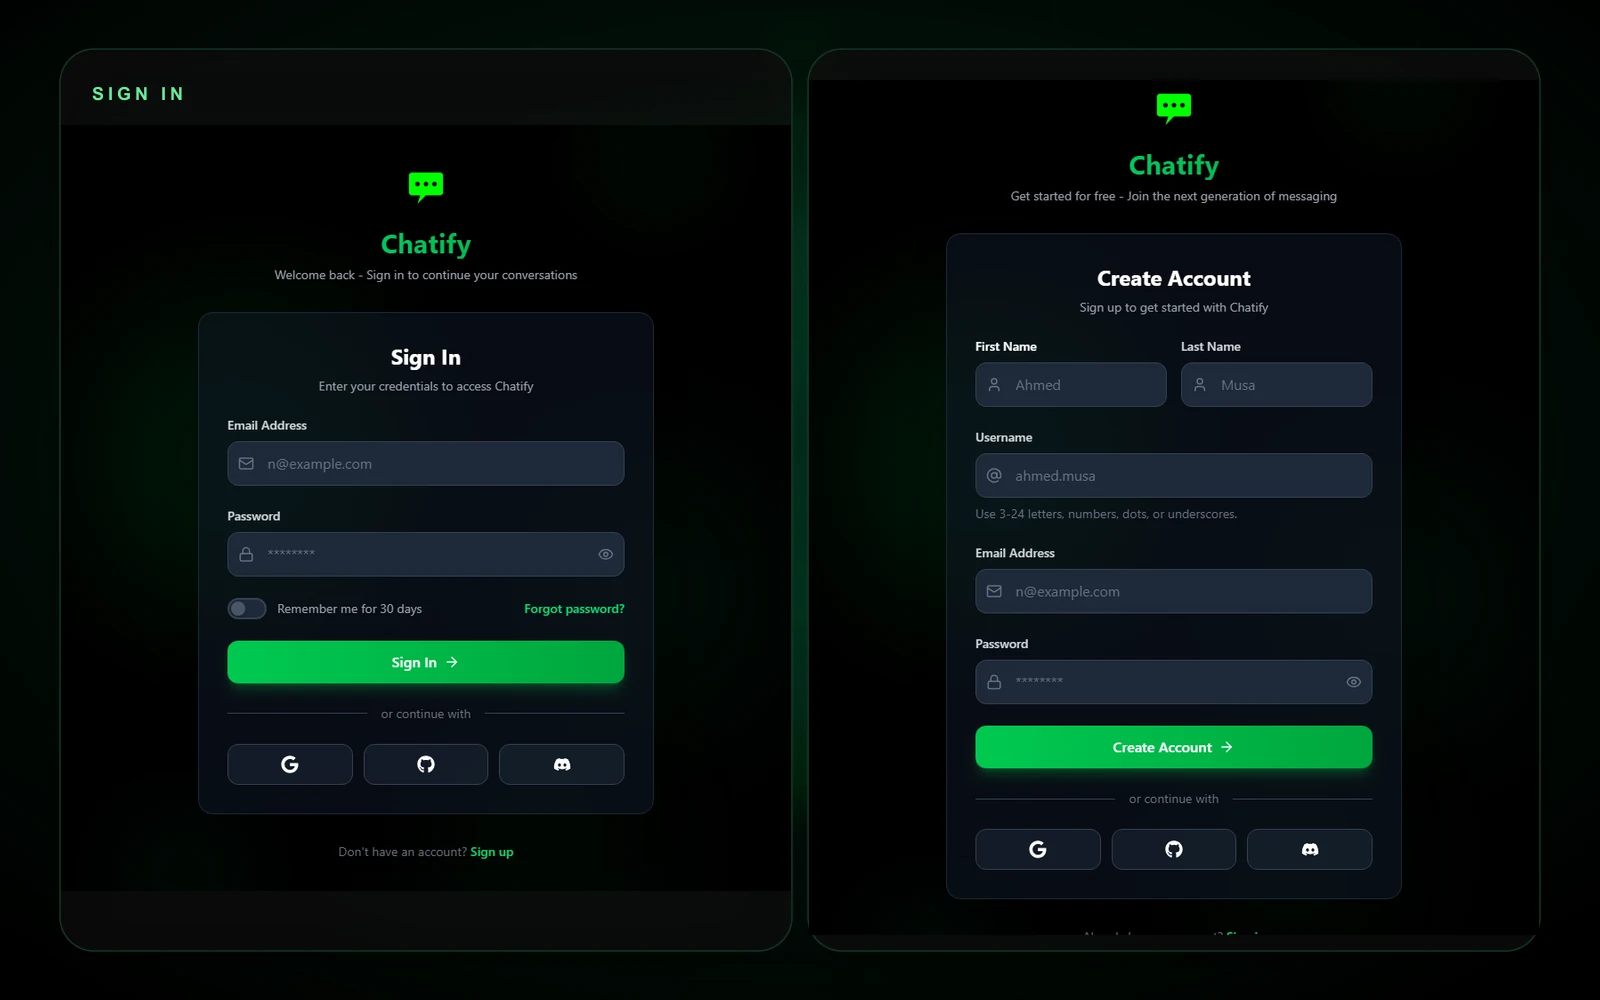
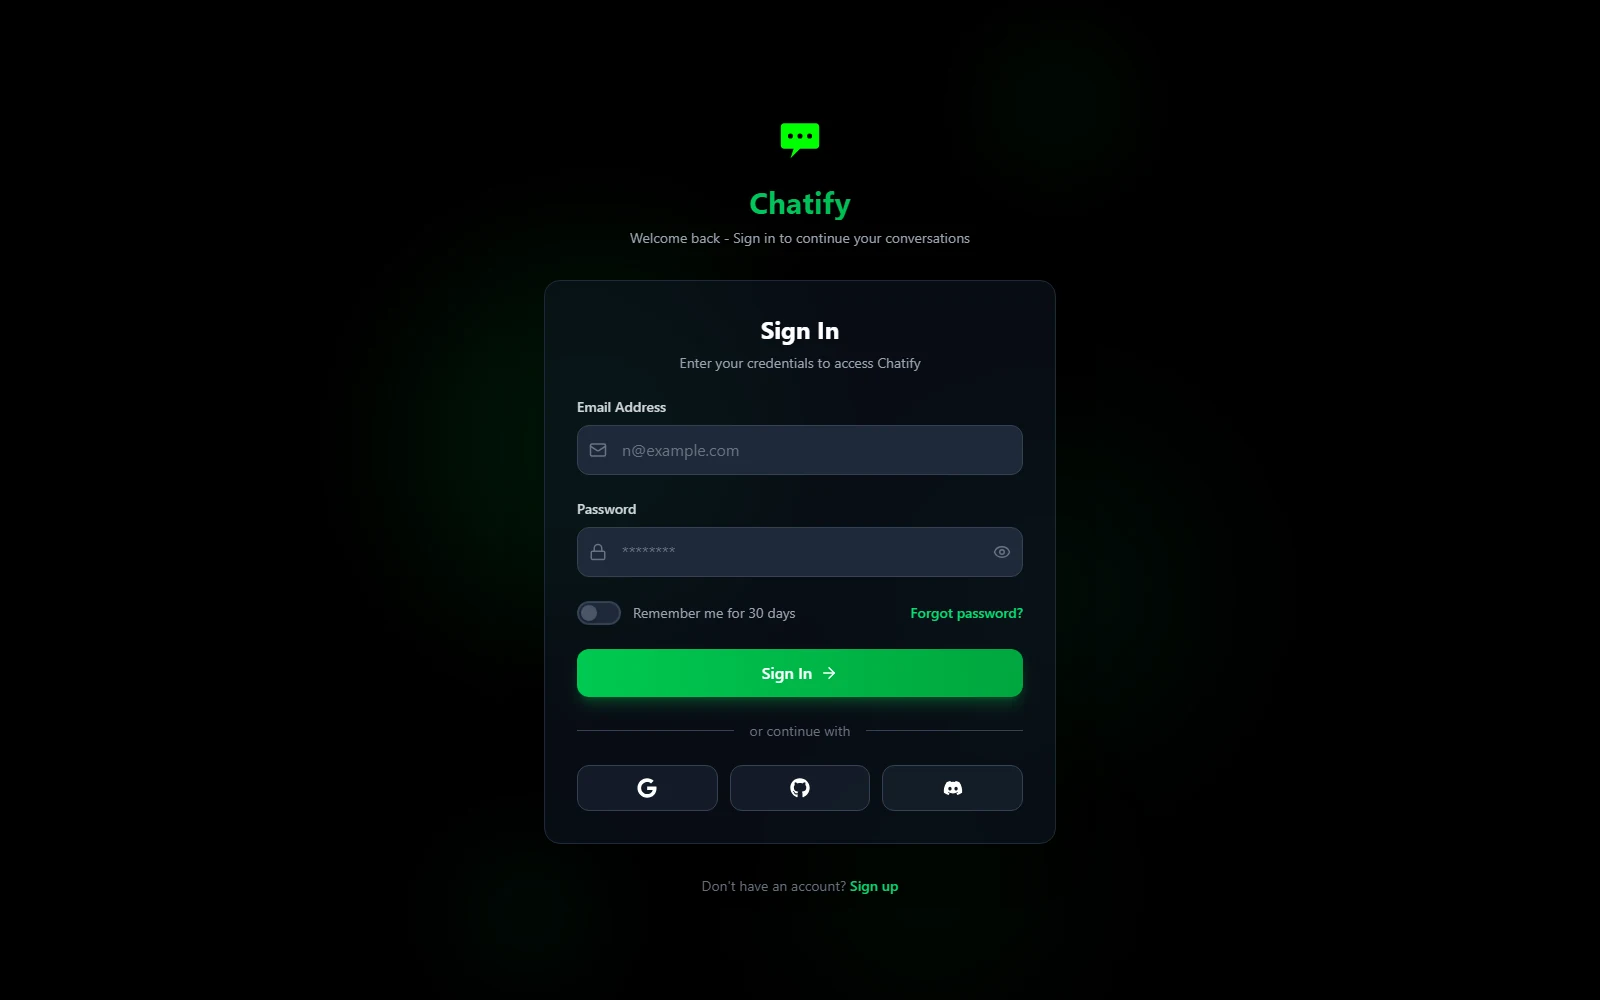
Use Chatify login preview

diff --git a/src/components/Projects.tsx b/src/components/Projects.tsx
@@ -32,7 +32,7 @@ const PROJECTS: Project[] = [
     description:
       "A real-time chat app built with React, Node/Express, MongoDB and Socket.IO — featuring typing indicators, online presence and message delivery tracking. JWT + cookies auth with password recovery and protected user flows.",
     stack: ["React", "Node.js", "Express", "MongoDB", "Socket.IO", "JWT", "Cookies"],
-    image: "/projects/chatify.webp?v=20260619",
+    image: "/projects/chatify.webp?v=20260619-login",
     demo: "https://chatify-ten-rho.vercel.app/",
     github: "https://github.com/MohammedGhazal09/Chatify",
     signal: "Live",
